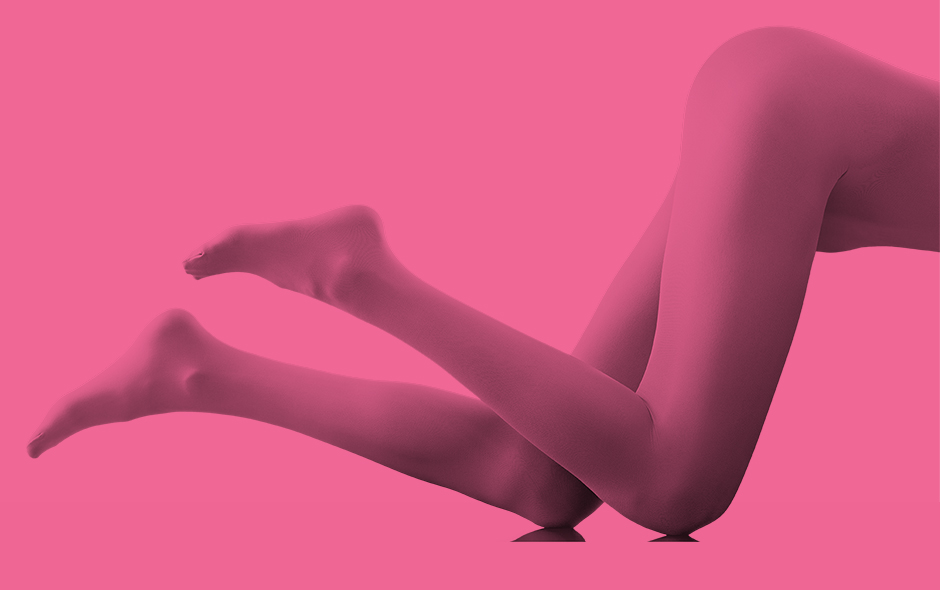
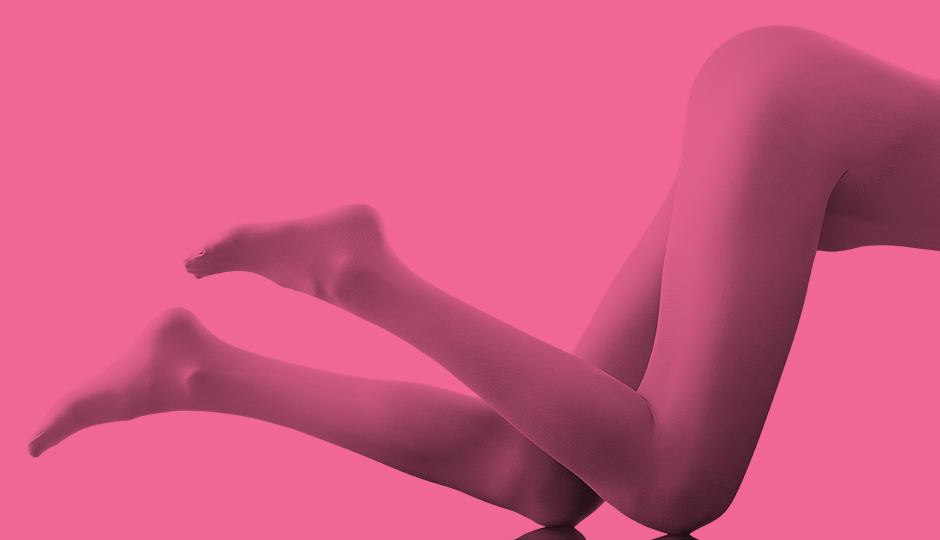
responsive photo sizing & content fitting

Changed region(s): [[0.0309, 0.3259, 0.8638, 1.0], [0.8638, 0.2963, 1.0, 0.4741], [0.9564, 0.1185, 1.0, 0.1481]]

diff --git a/css/app.css b/css/app.css
@@ -5,7 +5,7 @@ html{
 
 body{
   margin-bottom: 120px;
-  background-color: rgba(239,102,148,1);
+  background-color: #f06796;
   color: #231f20;
   font-family: 'Open Sans', Helvetica Neue, Helvetica, arial, sans-serif;
   font-weight: normal;
@@ -31,7 +31,7 @@ h1{
 
 /* Home copy */
 h2{
-  color: rgba(239,102,148,1);
+  color: #EF6694;
   font-size: 24px;
   font-style: italic;
   line-height: 60px;
@@ -177,6 +177,7 @@ h3 a:hover, h3 a:active{
   position: absolute;
   top: 50%;
   left: 50%;
+  -webkit-transform: translate(-50%, -50%);
   transform: translate(-50%, -50%);
   width: 100%;
 }
@@ -281,7 +282,7 @@ h5{
   bottom: 0;
 }
 .question-porn{
-  background-color: rgba(239,102,148,1);
+  background-color: #EF6694;
 }
 .question-porn .vert-centered{
   top: 0;
@@ -437,9 +438,8 @@ h5{
   }
   #start .container{
     background-image: url('../img/legs-horizontal.jpg');
-    background-position: right bottom;
-    background-size: 940px 590px;
-    /*background-size: contain;*/
+    background-size: 100% auto;
+    background-position: center bottom 48px;
   }
   #start .start-wrapper .agency-or-porn-logo{
     top: -78px;
@@ -617,7 +617,58 @@ h5{
 
 }
 
-/* Desktop = Browser Height smaller than 550px */
-@media only screen and (max-height: 550px) {
+/* Desktop = Browser Height bigger than 550px */
+@media only screen and (min-width: 1024px), @media only screen and (min-height: 550px) {
+  /*----------------- CHANGE THE SIZE BELOW THIS TO FIT ANY HEIGHT!! -----------------*/
+  .question-half .vert-centered{
+    height: 360px;
+  }
+  .question-image {
+    width: 300px;
+    height: 300px;
+  }
+}
 
+/* Desktop = Browser Height bigger than 610px */
+@media only screen and (min-width: 1024px), @media only screen and (min-height: 610px) {
+  .question-half .vert-centered{
+    height: 400px;
+  }
+  .question-image {
+    width: 340px;
+    height: 340px;
+  }
+}
+
+/* Desktop = Browser Height bigger than 690px */
+@media only screen and (min-width: 1024px), @media only screen and (min-height: 710px) {
+  .question-half .vert-centered{
+    height: 460px;
+  }
+  .question-image {
+    width: 400px;
+    height: 400px;
+  }
+}
+
+/* Desktop = Browser Height bigger than 790px */
+@media only screen and (min-width: 1024px), @media only screen and (min-height: 810px) {
+  .question-half .vert-centered{
+    height: 560px;
+  }
+  .question-image {
+    width: 500px;
+    height: 500px;
+  }
+}
+
+/* Desktop = Browser Height bigger than 910px */
+@media only screen and (min-width: 1024px), @media only screen and (min-height: 910px) {
+  .question-half .vert-centered{
+    height: 660px;
+  }
+  .question-image {
+    width: 600px;
+    height: 600px;
+  }
 }
